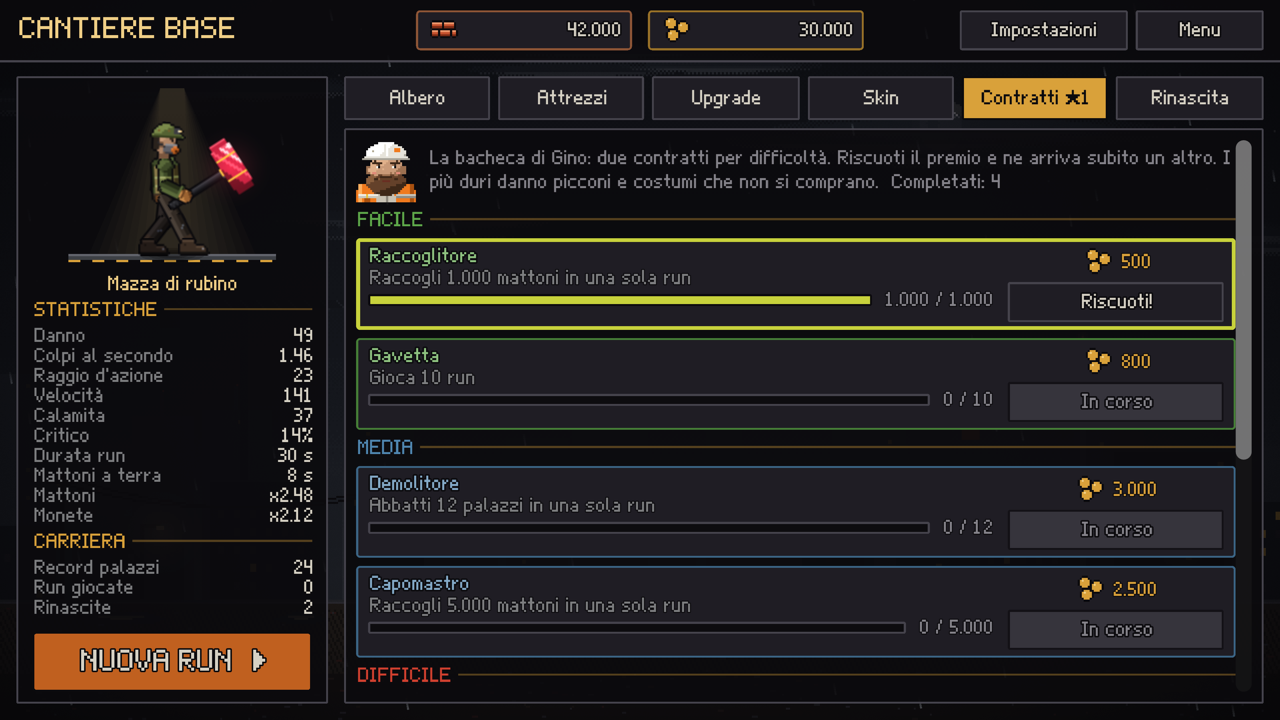
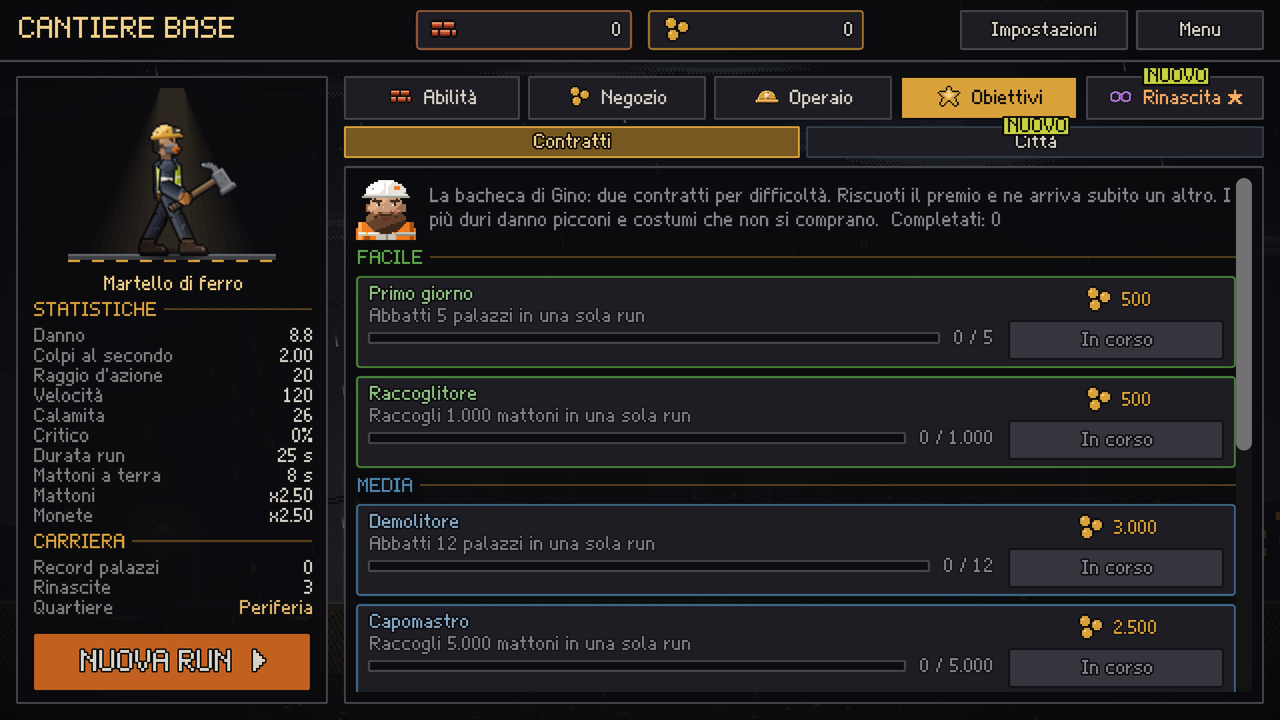
New screenshots (districts, challenge, city map) and gamepad controls

diff --git a/README.md b/README.md
@@ -1,6 +1,6 @@
 # Demolition Rush
 
-Sei un operaio con il martello e la città di notte è piena di palazzi da buttare giù. Hai pochi secondi per ogni giornata di lavoro: demolisci più palazzi che puoi, raccogli i mattoni che volano e scegli i potenziamenti quando sali di livello. A fine giornata torni al cantiere base e spendi quello che hai guadagnato per diventare più forte.
+Sei un operaio con il martello e la città è piena di palazzi da buttare giù. Hai pochi secondi per ogni giornata di lavoro: demolisci più palazzi che puoi, raccogli i mattoni che volano e scegli i potenziamenti quando sali di livello. A fine giornata torni al cantiere base e spendi quello che hai guadagnato per diventare più forte.
 
 ![Menu](screenshots/menu.png)
 
@@ -31,19 +31,24 @@ Dentro ogni zip c'è un file `LEGGIMI.txt` con tutti i dettagli.
 
 ## Comandi
 
-| Azione | Tasti |
-|---|---|
-| Muoversi | A / D oppure ← / → |
-| Colpire | automatico vicino al palazzo |
-| Scegliere una carta | clic, 1–4, oppure frecce + Invio |
-| Scatto | Shift o Spazio (dopo averlo comprato) |
-| Pausa | Esc o P |
+| Azione | Tastiera | Gamepad |
+|---|---|---|
+| Muoversi | A / D oppure ← / → | levetta sinistra o croce |
+| Colpire | automatico vicino al palazzo | automatico |
+| Scegliere una carta | clic, 1–4, oppure frecce + Invio | croce + A (Y rilancia) |
+| Scatto | Shift o Spazio (dopo averlo comprato) | B, X o RB |
+| Pausa | Esc o P | Start |
+| Cantiere base | Invio = nuova run | LB / RB cambiano sezione, Start = nuova run |
 
 ## Screenshot
 
-![Un nuovo grattacielo](screenshots/run.png)
+![Il Porto al tramonto](screenshots/run.png)
+![La Zona industriale di notte](screenshots/industria.png)
+![Il Centro di giorno](screenshots/centro.png)
+![Una sfida di Gino](screenshots/sfida.png)
 ![Scelta dei potenziamenti](screenshots/carte.png)
 ![Il cantiere base e l'albero delle abilità](screenshots/cantiere.png)
+![La mappa della città](screenshots/citta.png)
 ![I contratti di Gino](screenshots/contratti.png)
 
 ## Dimmi cosa ne pensi
